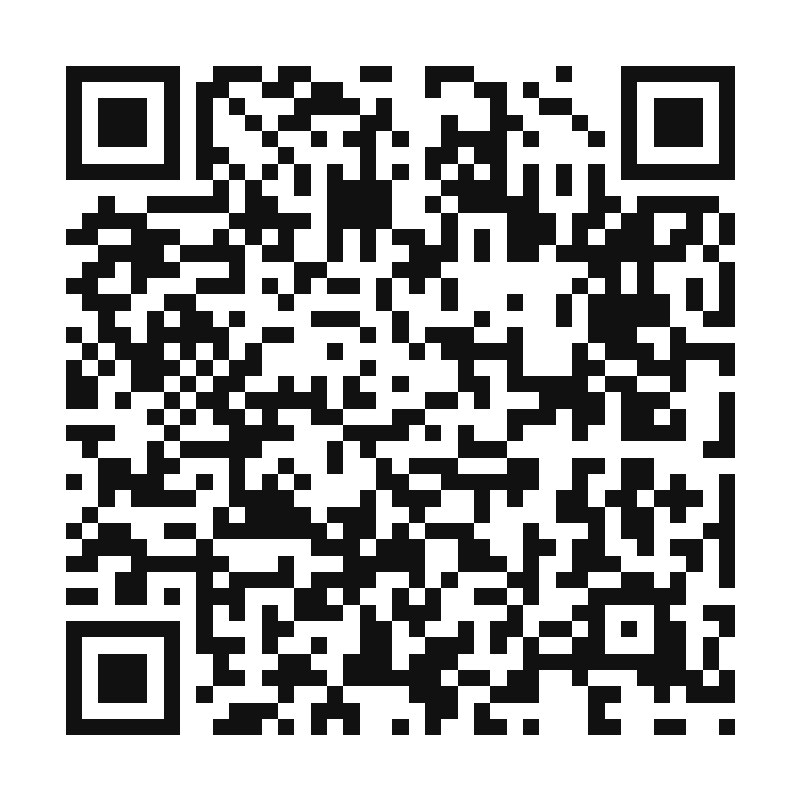
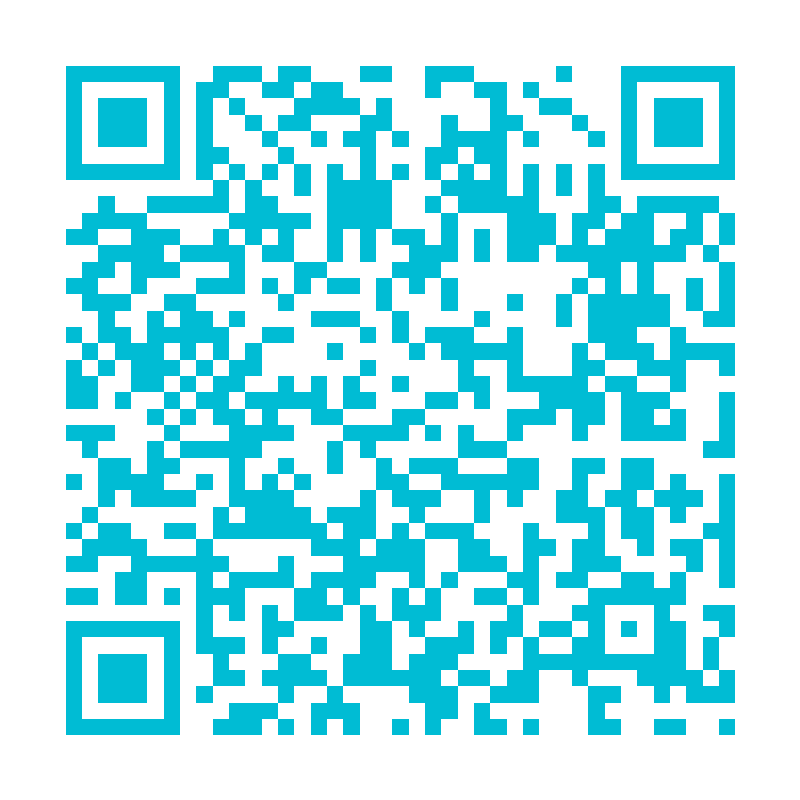
Update referral QR codes

diff --git a/generate-referral-qrs.js b/generate-referral-qrs.js
@@ -25,7 +25,7 @@ fs.mkdirSync(outputDirectory, { recursive: true });
       width: 800,
       margin: 4,
       errorCorrectionLevel: 'H',
-      color: { dark: '#111111', light: '#ffffff' }
+      color: { dark: '#00bcd4', light: '#ffffff' }
     });
   }
 
